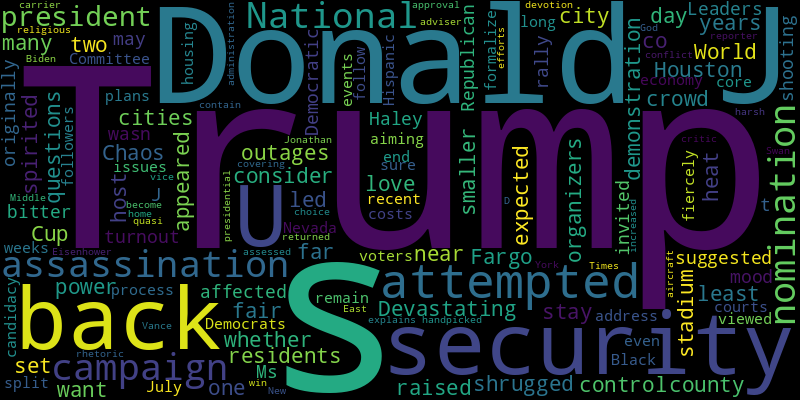
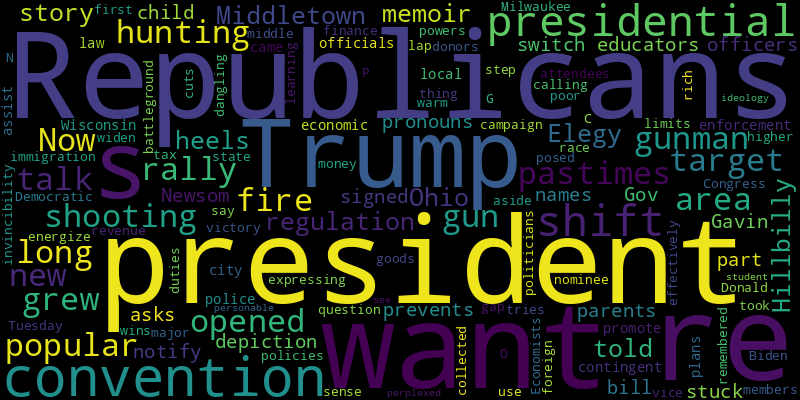
chore(bot): 🙏 auto commit

diff --git a/README.md b/README.md
@@ -2,41 +2,41 @@
 Auto RSS New York Times and Generate Word Cloud
 
 ## New York Times Global News
-* The European Union and the United States have recently imposed new sanctions on settlers and groups that they say have incited violence against Palestinians.
-* Masoud Pezeshkian, a widowed doctor, portrays himself as a reformer who can bring social and economic shifts. But others have tried and failed before him, and numerous obstacles are in his path.
+* To prevent a collapse of the electricity system, crippled by months of Russian attacks, the authorities have imposed rolling blackouts. Experts say it’s a harbinger of what’s to come this winter.
+* The French had a far-right government before, one that collaborated with the Nazis. When casting ballots even today, that is not an easy thing to forget.
+* The police said that one of the people found dead in the room on Tuesday was believed to have administered the poison.
+* Trump also accused Taiwan of sinking the U.S. semiconductor sector, signaling he wants a more transactional approach to shielding the island from China.
+* When King Charles unveiled the new U.K. government’s agenda in Parliament on Wednesday, he was surrounded by rituals that nodded to hundreds of years of history.
+* A battle has erupted in Moldova over its links to the Russian Orthodox Church, seen by many as a tool of Moscow’s influence abroad.
 * With the president’s party split, the government relies on formerly pro-Russian lawmakers to help it pass legislation and, the opposition says, minimize scrutiny.
-* China is putting more military and political pressure on Taiwan and its new president, whose rhetoric has been sharper than his predecessor’s.
-* Despite losing the final of Euro 2024 to Spain, Southgate’s eight years in charge lifted his country’s men’s team back into the top tier of international soccer.
-* Climate change has created more intense monsoon seasons in the region, displacing millions and gutting buildings, bridges and villages.
-* The police said that nine mutilated and dismembered bodies had been discovered, and that the suspect had confessed, only the latest violence against women in a rising tide of it in the East African nation.
-* No rule requires Japan’s elementary school students to wear the boxy, bulky backpack known as the randoseru. But for nearly 150 years, nearly all of them have.
-* Russian forces appear to have captured Urozhaine, a southern village taken back by Ukraine last summer. In the east, they are closing in on a key supply road.
-* Lawmakers in the West African country had supported overturning the prohibition, but changed course on Monday after a vociferous campaign led by women.
+* “Revolution is the job of poets and artists,” says Ko Maung Saungkha, leader of a rebel militia fighting the Myanmar dictatorship. He is not the only poet commander in a country with a strong tradition of political verse.
+* Masoud Pezeshkian, a widowed doctor, portrays himself as a reformer who can bring social and economic shifts. But others have tried and failed before him, and numerous obstacles are in his path.
+* Assailants attacked worshipers in Oman observing the Shiite day of mourning Ashura, in an unusual eruption of violence in a normally peaceful Gulf nation that prides itself on religious tolerance.
 
 ![Global](./global.png)
 ## New York Times United States News
-* Chaos at the stadium raised questions about crowd control and security just two years before the U.S. is set to co-host the World Cup in 11 cities.
-* Devastating, back-to-back power outages have led some in Houston to consider whether they want to stay in the city they love.
-* At a county fair near Fargo, many residents shrugged off the heat, at least for one day.
-* The demonstration, while spirited, appeared to be far smaller than organizers had expected. Some suggested that the attempted assassination of Donald J. Trump may have affected the turnout and mood.
-* After her bitter campaign against Donald J. Trump for the Republican nomination, Ms. Haley wasn’t originally invited — until the shooting at a Trump rally.
-* Leaders of the Democratic National Committee are aiming for a process that would formalize the nomination by the end of July, even as Democrats remain fiercely split over his candidacy.
-* The president plans to address core issues like the economy and housing costs as he courts Black and Hispanic voters in Nevada. The events of recent weeks are sure to follow.
-* Some of Donald J. Trump’s followers had long viewed him as handpicked by God. The attempted assassination has only increased such quasi-religious devotion and rhetoric.
-* How did J.D. Vance, once a harsh critic of Donald J. Trump, win Trump’s approval and become his choice for vice president? Jonathan Swan, a reporter covering Trump’s presidential campaign for The New York Times, explains
-* As the aircraft carrier Eisenhower returned home, the U.S. national security adviser assessed the Biden administration’s efforts to contain the conflict in the Middle East.
+* The gunman who opened fire at a Trump rally grew up in an area where hunting and target shooting have long been popular pastimes. Now, there’s new talk of gun regulation.
+* His memoir, “Hillbilly Elegy,” told the down-at-the-heels story of Middletown, Ohio. It’s a depiction that has stuck.
+* Gov. Gavin Newsom signed a bill that prevents educators from having to notify parents if their child asks to switch names or pronouns.
+* The officers were part of a contingent of 4,500 law enforcement officials who came to the Wisconsin city to assist local police with the Republicans’ convention.
+* The president plans to promote his economic and immigration policies as he tries to re-energize his campaign in the battleground state.
+* On Tuesday, Republicans effectively took a victory lap in the middle of the presidential race, expressing a sense of invincibility at their convention.
+* We posed a question to R.N.C. attendees in Milwaukee: If Donald Trump wins, what is the first thing you want him to do as president?
+* They’re calling politicians. They’re dangling money to members of Congress. But major Democratic donors who want President Biden to step aside are also learning the limits of their powers.
+* Some Republicans want to use revenue collected from higher duties on foreign goods to finance tax cuts. Economists say such a shift could widen the gap between the rich and the poor.
+* The G.O.P. vice-presidential nominee is remembered as a warm and personable student. But some are perplexed by what they see as his shift in ideology.
 
 ![US](./usnews.png)
 ## New York Times Asia News
+* Only six specimens of the spade-toothed whale have ever been identified. This carcass could be the first that scientists are able to dissect.
+* Trump also accused Taiwan of sinking the U.S. semiconductor sector, signaling he wants a more transactional approach to shielding the island from China.
+* Asian honeybees protect their hives by making insect intruders go airborne.
+* The police said that one of the people found dead in the room on Tuesday was believed to have administered the poison.
+* Plus, Israeli strikes killed more than 20 people in Gaza.
+* Across the country, students have taken to the streets over job quotas that they say limit their opportunities.
+* The police originally said the deaths were apparently caused by poison, but later walked that statement back.
+* “Revolution is the job of poets and artists,” says Ko Maung Saungkha, leader of a rebel militia fighting the Myanmar dictatorship. He is not the only poet commander in a country with a strong tradition of political verse.
 * Climate change has created more intense monsoon seasons in the region, displacing millions and gutting buildings, bridges and villages.
 * Ri Il-kyu, who fled to South Korea late last year, alleged that two North Korean officials who had been assigned to negotiate with the Trump administration had been punished.
-* China is putting more military and political pressure on Taiwan and its new president, whose rhetoric has been sharper than his predecessor’s.
-* Plus, a judge dismisses a criminal case against Trump.
-* The seasoning is sold by Trader Joe’s, a brand whose popularity has skyrocketed in the region in recent years.
-* The move was widely seen as the latest effort by a weak governing coalition to squash Mr. Khan’s political popularity.
-* No rule requires Japan’s elementary school students to wear the boxy, bulky backpack known as the randoseru. But for nearly 150 years, nearly all of them have.
-* President Xi Jinping is presiding over a conclave to draft a new economic program. The stakes are high, but expectations for big changes are modest.
-* Plus, a major Israeli airstrike in Gaza.
-* K.P. Sharma Oli, who leads the nation’s largest communist party, is to take office on Monday.
 
 ![Asian](./asian.png)
